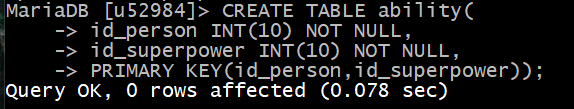
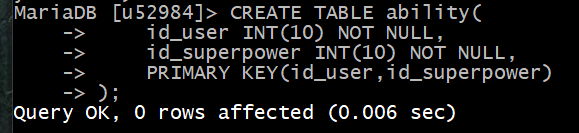
select

diff --git a/index.php b/index.php
@@ -57,12 +57,12 @@ try {
     $stmt = $db->prepare("INSERT INTO person (name, email, year, gender, limbs, biography) VALUES (?, ?, ?, ?, ?, ?)");
     $stmt -> execute([$_POST['name'], $_POST['email'], $_POST['year'], $_POST['gender'], $_POST['limbs'], $_POST['biography']]);
     $last_index=$db->lastInsertId();
-    //$stmt = $db->prepare("SELECT id_power FROM superpower WHERE superpower = ?");
+    $stmt = $db->prepare("SELECT id_power FROM superpower WHERE superpower = ?");
     foreach ($_POST['superpowers'] as $value) {
-        //$stmt->execute([$value]);
-        //$id_power=$stmt->fetchColumn();
-        $stmt1 = $db->prepare("INSERT INTO ability (id_person, id_power) VALUES (?, ?)");
-        $stmt1 -> execute([$last_index, $value]);
+        $stmt->execute([$value]);
+        $id_power=$stmt->fetchColumn();
+        $stmt1 = $db->prepare("INSERT INTO ability (id_user, id_superpower) VALUES (?, ?)");
+        $stmt1 -> execute([$last_index, $id_power]);
     }
     unset($value);
 }
